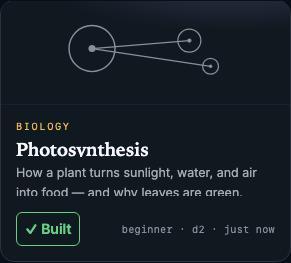
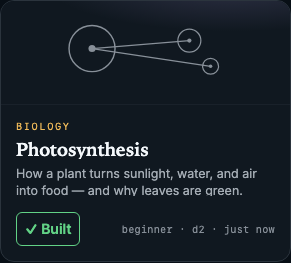
fix(design): library card description line-height → --lh-card-desc 1.4 (no 2nd-line clip)
The library poster card's description (.library-poster__desc) used the gloss
line-height band (--lh-gloss 1.55) for its 2-line -webkit-box clamp. At
--fs-caption (12.5px) that is ~19.4px/line → 38.8px over two lines, which
overflows the fixed card body budget, so overflow:hidden sliced the SECOND
line mid-glyph (descenders cut; on mobile the serif title's descender grazed
the clip too). Figma node 6:47 renders the description as two CLEAN fully-
visible lines (its 6:46 box is 35px ≈ 17.5px/line ≈ 1.40 at 12.5px).

Fix (token-disciplined per §0): add --lh-card-desc: 1.4 to the §0 :root
manifest, its name to tokens.ts (tokens.test.ts stays green), and the entry
to DESIGN.md §0; .library-poster__desc now uses var(--lh-card-desc). Both
description lines now sit within the card with descenders intact and the
title is unclipped at desktop 1440x900 and mobile 390x844. The chrome-only
card token is not injected into the artifact sandbox, so serve.test.ts's
two-copies invariant is unaffected.

Doc-currency (AGENTS.md layout notes, #151 surface): note the isolated
fail-safe classify-category Haiku-tail helper (NOT a stage, NEVER throws,
never touches the LessonBrief/eval arm) and the additive NULLABLE owner-
scoped curriculum.category/summary card columns read by listLessons.

Re-captured the library dense-card visual baseline (desktop + mobile darwin).

Claude-Session: https://claude.ai/code/session_01LpCadPSUTfxva2QxCk857y

Changed region(s): [[0.0619, 0.6388, 0.8969, 0.7605], [0.0619, 0.0, 0.9588, 0.0304], [0.2784, 0.2433, 0.3093, 0.2738]]

diff --git a/src/app/globals.css b/src/app/globals.css
@@ -115,6 +115,7 @@
   --lh-display: 1.06;
   --lh-heading: 1.18;
   --lh-gloss: 1.55;
+  --lh-card-desc: 1.4; /* library poster-card 2-line description (Figma 6:46/6:47 ≈ 17.5px/line @ 12.5px) */
 
   /* space (rem) */
   --sp-1: 0.25rem;
@@ -576,13 +577,16 @@ h1 {
   overflow: hidden;
 }
 
-/* One-line DESCRIPTION (Figma 6:47): sans 12.5px (= --fs-caption) in --text-muted (#a4acb4), the gloss
-   line-height band. The lesson's learner-facing one-liner (summary = the brief's learningGoal). Clamped
-   to TWO lines (the frame's 248px / ~2-line description) so a long goal can't blow the fixed card height;
-   only rendered when the stored summary is non-null (page.tsx cardDescription), else the row is omitted. */
+/* One-line DESCRIPTION (Figma 6:47): sans 12.5px (= --fs-caption) in --text-muted (#a4acb4). The lesson's
+   learner-facing one-liner (summary = the brief's learningGoal). Clamped to TWO lines (the frame's 248px /
+   ~2-line description) so a long goal can't blow the fixed card height; only rendered when the stored
+   summary is non-null (page.tsx cardDescription), else the row is omitted. Line-height is the tighter
+   --lh-card-desc (1.4), NOT --lh-gloss (1.55): at 12.5px, 1.55 → ~19.4px/line → 38.8px over two lines,
+   which exceeds the card body budget so overflow:hidden sliced the SECOND line mid-glyph (descenders cut).
+   The Figma 6:46 box is 35px = ~17.5px/line ≈ 1.40, two CLEAN fully-visible lines — matched here. */
 .library-poster__desc {
   font-size: var(--fs-caption);
-  line-height: var(--lh-gloss);
+  line-height: var(--lh-card-desc);
   color: var(--text-muted);
   display: -webkit-box;
   -webkit-line-clamp: 2;

diff --git a/src/app/styles/tokens.ts b/src/app/styles/tokens.ts
@@ -110,6 +110,7 @@ export const lineHeightTokens = [
   '--lh-display',
   '--lh-heading',
   '--lh-gloss',
+  '--lh-card-desc',
 ] as const;
 
 /** Spacing scale — rem (DESIGN.md §0). */

diff --git a/AGENTS.md b/AGENTS.md
@@ -112,7 +112,7 @@ Run `git status` / `ls` for current state — don't trust a snapshot here.
 - `npm run skeleton -- --topic "<topic>" [--level …] [--depth N] [--audience "…"] [--cheap] [--max-questions N] [--trace [path]]` — run the **single-lesson path** (`runLesson` — plan → research → brief → spec → code → critic → ONE lesson) end-to-end over the in-process engine and print the one-page result + per-model cost. (Matches the deployed Job + the single-lesson UI; the curriculum path is dormant — see `run-pipeline` below.) `--cheap` runs every stage on Haiku and `--max-questions N` caps the research fan-out (each question drives a web search — the main cost driver) — together they keep a test run to ~pennies. `--max-nodes N` is still parsed but **inert** on the lesson path (it caps `runPipeline`'s built-node count, never the single lesson), so it's omitted from the usage string. `--dump-html <dir>` writes the synthesized page's HTML to `<dir>/<slug>.html` so you can open it in a browser. `--persist` writes the whole run to Postgres via `persistRun` (needs `DATABASE_URL` + a migrated DB — `docker compose up -d && npm run db:migrate`) and prints the `/curriculum/<id>` route the app serves it at. `--trace [path]` records the run's per-stage cost/token spans to a local `@eleatic/eval` SQLite store (one run + an `_analysis` row + a row per built page, each a span tree); because `runLesson` exposes the assembled `LessonBrief`, a `--trace` run now also FIRES the LLM-judge (issue #51) over that brief — on the run's resolved judge model, so `--cheap` cheapens the judge too — folding its scores + cost into the `_analysis` row. Explore with `npx @eleatic/eval serve --db <path>` (no path → an ephemeral `:memory:` store). It shares the run id with `--persist` so the trace links the curriculum. Needs a provider API key in the env (e.g. `ANTHROPIC_API_KEY`); uses no durable engine.
 - `npm run job` — the headless Cloud Run **Job** entrypoint (`src/eval/run-job.ts`): reads `RUN_ID`/`TOPIC`/`LEVEL`/`DEPTH`/`AUDIENCE` + `CHEAP`/`MAX_NODES`/`MAX_QUESTIONS` from the **env** (a Job execution passes them as overrides; `RUN_ID` is an input — never generated — so a retry resumes on the same id), runs the **single-lesson path** (`runLesson` — plan → research → brief → spec → code → critic → ONE lesson, persisted as a one-page curriculum; NO graph/gate/hub) over the durable `GcpEngine`, and `persistRun`s unconditionally. `MAX_NODES` is **inert** on this path (it builds exactly one page) but stays in the env contract. Needs `DATABASE_URL` + `ANTHROPIC_API_KEY`. The Service's `/api/generate` dispatches it; a non-zero exit makes Cloud Run retry on the same `RUN_ID`.
 
-**Layout:** everything lives under `src/` (Next.js App Router via `src/app`). `src/app/` (Next.js routes + `globals.css`, which materializes the `DESIGN.md` §0 tokens; `page.tsx` is the intake form → `POST api/generate/route.ts` (**auth-gated**: an allowlisted Google session is verified — revocation-checked — before any spend, via the `AuthProvider` port; `(auth)/sign-in` + `api/auth/session` mint the httpOnly session cookie and `auth/session-nav` is the signed-in chrome — then it mints a runId; deployed it DISPATCHES the Cloud Run pipeline Job with per-run env overrides via `@google-cloud/run` `dispatch.ts` — the Service stays scale-to-zero; local dev, with no `PIPELINE_JOB_NAME`, falls back to an in-process fire-and-forget **single-lesson** run (`runLesson`, cheap + capped — on the SHARED `cheapModels()` profile (Haiku analysis, Sonnet synthesis — `src/llm/models.ts`, the single source of truth), so it matches the deployed Job's `CHEAP` tier and builds a full page locally rather than truncating to 'soon'; + the single-lesson UI)) → redirects to `curriculum/[id]`, the single-lesson read route (`getCurriculum` → the lone page of the one-page curriculum; built → the lesson's artifact rendered in a no-`allow-same-origin` iframe wrapped by the reader shell (`reader-shell.tsx` — reading-progress chrome + the `#readerPanel.morph-box` FLIP destination), whose pure RECEIVE-side validator `lesson-message.ts` (`validateMessage` checks Window-identity `source === iframe.contentWindow`, NEVER `event.origin` — `"null"` across the opaque boundary — and parses any payload as untrusted coordinate-only data) stays ready for a same-process `lesson:progress` postMessage (the chrome sits at its zero state when the artifact posts nothing), soon/text → a labeled degraded state; while a run is in flight it shows a single-lesson generating state that polls `api/curriculum/[id]/status/route.ts` until the row lands — and renders that poll's owner-scoped `steps` as a live per-step timeline (`generating.tsx`: finished steps show their duration, the in-progress step a live ticking timer, a failed step labeled); the status route derives `ready` from `getCurriculum` and `steps` SEPARATELY from `ownsRun` + `getStepEvents`, so the timeline is visible in the pre-persist window where `getCurriculum` is still null). The tiered hub render (`curriculum/view.ts`'s `tileView` + the tiered CSS) is DORMANT — retained for the future curriculum-wrapper milestone, not rendered today. `curriculum/[id]/[slug]` remains a vestigial standalone detail route (the same artifact in a no-`allow-same-origin` iframe, keyed by URL-safe slug) but `[id]` no longer links to it; `curriculum/[id]/artifact/[slug]/route.ts` serves a stored page's HTML in a strict-CSP sandbox (`artifact/serve.ts`) **only to the owning session** — authorized through the owning curriculum (the same-origin GET carries the cookie), not the shared content-hash pageId), `src/domain/` (pure types + identity/settings/stage-contracts + the `AuthProvider` port `auth.ts` — no I/O; its `firebase-admin` adapter `GcpAuthProvider` + an in-memory fake live in `src/app/auth/`; `src/app/auth/provider.ts` is the `selectAuthProvider()` SEAM `getSessionIdentity` calls — the real `GcpAuthProvider` by default, the seeded `FakeAuthProvider` ONLY under the opt-in `AUTH_PROVIDER=fake` and ONLY off a deployed runtime (it THROWS if the fake is requested with `K_SERVICE` set — the Cloud Run signal), so the e2e harness gets an allowlisted session with no Google OAuth while the fake stays impossible in prod), `src/llm/` (the only LLM-SDK import site — Vercel AI SDK + provider packages; `registry` resolves a `{provider,model}` to a model, `client` wraps text/structured completions (+ `searchWeb`, Anthropic web-search grounding) with per-call cost, plus model tiers (`models.ts`: `STAGE_MODELS` defaults + `cheapModels()` — the single source of truth for the cheap Haiku-analysis/Sonnet-synthesis profile, shared by every cheap entrypoint) + the `provider:model` pricing map), `src/pipeline/` (stages over the `src/domain` contracts — the ANALYSIS LLM stages `planner` / `researcher` (web-search-grounded; drops any finding citing a non-retrieved source) / `graph`, the SYNTHESIS LLM stages `spec` → `code` (standalone HTML) → `critic` (pass/fail verdict), plus the pure deterministic `coverage-gate` (route built/text/soon by coverage; reject duplicate slugs, drop edges to unknown nodes + break cycles by dropping back-edges, so LLM graph quirks can't crash the run) + `hub` (tiered sitemap assembly, `built` only when routed-built AND critic-passed) + `run-pipeline` (two run paths over an injected `Engine`, sharing one ANALYSIS prelude + cost/trace machinery: `runPipeline` is the curriculum path — plan → researchers fan-out → graph → gate → per-built-node spec/code/critic → hub (currently DORMANT: NO entrypoint drives it — `run-skeleton.ts` (`npm run skeleton`), the local-dev in-process fallback in `api/generate/route.ts`, and the deployed Job all now run `runLesson`; the curriculum path is retained for the curriculum-wrapper milestone and still covered by its own unit tests); `runLesson` is the SINGLE-LESSON path — plan → researchers → **brief** → spec → code → critic → ONE lesson keyed by a topic-derived slug, with NO graph/gate/hub. Both thread every per-call cost and accept per-stage model overrides — the workflow_version arm / cheap-mode — a `maxNodes` synthesis cap (inert on the lesson path), and an injectable `StageBundle` so any single stage is swappable for a test or eval arm) + `ports.ts` (the swap-seam catalog: `StageBundle`/`defaultStages` + the named ports — Engine · StageDeps · StageModel · StoreDeps · TraceSink); stages take an injectable `StageDeps` + a `model` param so they unit-test with no live model), `src/engine/` (the `Engine` step-memoization seam + an in-process `InlineEngine` for tests/dev + the durable Postgres-backed `GcpEngine` — `step(name,key,fn)` memoized in the `step_result` table keyed by run+name+key, so a Cloud Run Job crash-resume reads completed steps back instead of re-running paid work; in-process it also dedups concurrent fan-out like InlineEngine; on a real (cache-miss) step it also writes per-step TIMING to the `step_event` table — `started_at` on start, `finished_at`/`status` on end (`error` if `fn` throws) — while a cache HIT writes nothing, so a resumed timeline stays complete + non-duplicated (issue #61)), `src/store/` (Postgres schema + access — `repo.ts`: `persistRun` writes a whole run atomically (+ the owner's `sub`) and, in the SAME transaction, PRUNES this run's three transient per-run tables (`step_result` resume-memoization, `run_owner` poll-window stamp, `step_event` live timeline) once the curriculum lands — none has a post-persist consumer, so they stay bounded at their useful in-run lifetime (a persist failure rolls the deletes back too, keeping the run resumable); `step_event` is intentionally NOT kept for cross-run analysis; + `getCurriculum`/`getOwnedPage` read it back **owner-scoped** (uniform 404 for not-owned; the pre-persist poll window uses a `run_owner` stamp written at dispatch) + `getStepEvents` reads a run's `step_event` timeline for the live generating UI (served only in the pre-persist window — pruned at persist) + `listLessons` is the owner-scoped library-card reader (TS-16 — one thin poster-card row per owned lesson, newest-first; an inner `DISTINCT ON (c.id)` collapses each curriculum to its lowest-`ordinal` representative page so a multi-page curriculum (the RETAINED `runPipeline` path) emits ONE card per curriculum, not N duplicates sharing one `/curriculum/[id]` href; JSONB-extracts `interactionKind` best-effort, tolerating blob rows + any historical sectioned-spec rows + degraded NULL-`spec_json` rows so the library home can't crash), over an injectable pool), `src/eval/` (the `run-skeleton` CLI driver — the single-lesson path (`runLesson`) over `InlineEngine`, prints the one-page result + cost, and on `--trace` fires the LLM-judge over the brief (`npm run skeleton`) — and `run-job.ts`, the headless Cloud Run **Job** entrypoint: the single-lesson path over the durable `GcpEngine` from env inputs, `persistRun`d (`npm run job`)), `src/trace/` (the OBSERVABILITY seam behind the `TraceSink` port: `span.ts` collects per-call spans, the pure `reduce.ts` folds them to an eleatic run + rows, `eleatic-adapter.ts` is the SOLE `@eleatic/eval` import site — a devDep fenced out of the app bundle; wired into the CLI via `--trace`. Records carry no wall-clock, so spans omit `durationMs`). `Dockerfile.app` (Next standalone → `server.js` on `$PORT`; `NEXT_PUBLIC_FIREBASE_*` build args inline the client auth config at build time) + `Dockerfile.job` (`tsx src/eval/run-job.ts`, single-repo) build the two images; `infra/cloud-run.tf` provisions the Cloud Run **Service** (scale-to-zero app; its env carries `AUTH_ALLOWLIST` for the spend gate) + the pipeline **Job** + a one-shot **migrate Job** (the job image, command-overridden to `tsx src/store/migrate.ts`) + a least-priv custom role (`run.jobs.run`/`runWithOverrides`) so the Service can dispatch the Job, all reaching Cloud SQL via the unix-socket connector + secret-env. The `/api/generate`→Job dispatch (`dispatch.ts`) completes the deploy path. `infra/auth.tf` provisions managed **GCP Identity Platform** (Google-only sign-in + the runtime SA's `firebaseauth.admin`) for the auth subsystem (ADR 0002; ownership is an `owner_sub` column on the existing Postgres, no second store). The whole GCP foundation + Cloud Run + Identity Platform is `infra/` Terraform over a GCS-backed state. The deployment + orchestration + swappability architecture — GCP serverless (Cloud Run Service + Job), code-orchestration (no managed workflow tool), one Cloud SQL Postgres for app records *and* `step_results`, and **every workflow component swappable behind a port** (engine, stages, LLM client, store, model — the testing + eval-arm seam) — is recorded in [`docs/decisions/0001-deployment-orchestration-and-swappability.md`](docs/decisions/0001-deployment-orchestration-and-swappability.md), which **supersedes** the Engine/Orchestration/deploy sections of `docs/plans/walking-skeleton.md`.
+**Layout:** everything lives under `src/` (Next.js App Router via `src/app`). `src/app/` (Next.js routes + `globals.css`, which materializes the `DESIGN.md` §0 tokens; `page.tsx` is the intake form → `POST api/generate/route.ts` (**auth-gated**: an allowlisted Google session is verified — revocation-checked — before any spend, via the `AuthProvider` port; `(auth)/sign-in` + `api/auth/session` mint the httpOnly session cookie and `auth/session-nav` is the signed-in chrome — then it mints a runId; deployed it DISPATCHES the Cloud Run pipeline Job with per-run env overrides via `@google-cloud/run` `dispatch.ts` — the Service stays scale-to-zero; local dev, with no `PIPELINE_JOB_NAME`, falls back to an in-process fire-and-forget **single-lesson** run (`runLesson`, cheap + capped — on the SHARED `cheapModels()` profile (Haiku analysis, Sonnet synthesis — `src/llm/models.ts`, the single source of truth), so it matches the deployed Job's `CHEAP` tier and builds a full page locally rather than truncating to 'soon'; + the single-lesson UI)) → redirects to `curriculum/[id]`, the single-lesson read route (`getCurriculum` → the lone page of the one-page curriculum; built → the lesson's artifact rendered in a no-`allow-same-origin` iframe wrapped by the reader shell (`reader-shell.tsx` — reading-progress chrome + the `#readerPanel.morph-box` FLIP destination), whose pure RECEIVE-side validator `lesson-message.ts` (`validateMessage` checks Window-identity `source === iframe.contentWindow`, NEVER `event.origin` — `"null"` across the opaque boundary — and parses any payload as untrusted coordinate-only data) stays ready for a same-process `lesson:progress` postMessage (the chrome sits at its zero state when the artifact posts nothing), soon/text → a labeled degraded state; while a run is in flight it shows a single-lesson generating state that polls `api/curriculum/[id]/status/route.ts` until the row lands — and renders that poll's owner-scoped `steps` as a live per-step timeline (`generating.tsx`: finished steps show their duration, the in-progress step a live ticking timer, a failed step labeled); the status route derives `ready` from `getCurriculum` and `steps` SEPARATELY from `ownsRun` + `getStepEvents`, so the timeline is visible in the pre-persist window where `getCurriculum` is still null). The tiered hub render (`curriculum/view.ts`'s `tileView` + the tiered CSS) is DORMANT — retained for the future curriculum-wrapper milestone, not rendered today. `curriculum/[id]/[slug]` remains a vestigial standalone detail route (the same artifact in a no-`allow-same-origin` iframe, keyed by URL-safe slug) but `[id]` no longer links to it; `curriculum/[id]/artifact/[slug]/route.ts` serves a stored page's HTML in a strict-CSP sandbox (`artifact/serve.ts`) **only to the owning session** — authorized through the owning curriculum (the same-origin GET carries the cookie), not the shared content-hash pageId), `src/domain/` (pure types + identity/settings/stage-contracts + the `AuthProvider` port `auth.ts` — no I/O; its `firebase-admin` adapter `GcpAuthProvider` + an in-memory fake live in `src/app/auth/`; `src/app/auth/provider.ts` is the `selectAuthProvider()` SEAM `getSessionIdentity` calls — the real `GcpAuthProvider` by default, the seeded `FakeAuthProvider` ONLY under the opt-in `AUTH_PROVIDER=fake` and ONLY off a deployed runtime (it THROWS if the fake is requested with `K_SERVICE` set — the Cloud Run signal), so the e2e harness gets an allowlisted session with no Google OAuth while the fake stays impossible in prod), `src/llm/` (the only LLM-SDK import site — Vercel AI SDK + provider packages; `registry` resolves a `{provider,model}` to a model, `client` wraps text/structured completions (+ `searchWeb`, Anthropic web-search grounding) with per-call cost, plus model tiers (`models.ts`: `STAGE_MODELS` defaults + `cheapModels()` — the single source of truth for the cheap Haiku-analysis/Sonnet-synthesis profile, shared by every cheap entrypoint) + the `provider:model` pricing map), `src/pipeline/` (stages over the `src/domain` contracts — the ANALYSIS LLM stages `planner` / `researcher` (web-search-grounded; drops any finding citing a non-retrieved source) / `graph`, the SYNTHESIS LLM stages `spec` → `code` (standalone HTML) → `critic` (pass/fail verdict), plus the ISOLATED fail-safe `classify-category` (`classify-category.ts` — NOT a `StageBundle` stage and NOT on the `runLesson` stage path: a thin Haiku-tier presentation-metadata helper invoked at the run TAIL that derives the card's subject eyebrow (BIOLOGY / MATHEMATICS / …) from the topic; it NEVER throws — any error/invalid output → `category: null`, the run unaffected — and never touches the `LessonBrief`/eval arm), plus the pure deterministic `coverage-gate` (route built/text/soon by coverage; reject duplicate slugs, drop edges to unknown nodes + break cycles by dropping back-edges, so LLM graph quirks can't crash the run) + `hub` (tiered sitemap assembly, `built` only when routed-built AND critic-passed) + `run-pipeline` (two run paths over an injected `Engine`, sharing one ANALYSIS prelude + cost/trace machinery: `runPipeline` is the curriculum path — plan → researchers fan-out → graph → gate → per-built-node spec/code/critic → hub (currently DORMANT: NO entrypoint drives it — `run-skeleton.ts` (`npm run skeleton`), the local-dev in-process fallback in `api/generate/route.ts`, and the deployed Job all now run `runLesson`; the curriculum path is retained for the curriculum-wrapper milestone and still covered by its own unit tests); `runLesson` is the SINGLE-LESSON path — plan → researchers → **brief** → spec → code → critic → ONE lesson keyed by a topic-derived slug, with NO graph/gate/hub. Both thread every per-call cost and accept per-stage model overrides — the workflow_version arm / cheap-mode — a `maxNodes` synthesis cap (inert on the lesson path), and an injectable `StageBundle` so any single stage is swappable for a test or eval arm) + `ports.ts` (the swap-seam catalog: `StageBundle`/`defaultStages` + the named ports — Engine · StageDeps · StageModel · StoreDeps · TraceSink); stages take an injectable `StageDeps` + a `model` param so they unit-test with no live model), `src/engine/` (the `Engine` step-memoization seam + an in-process `InlineEngine` for tests/dev + the durable Postgres-backed `GcpEngine` — `step(name,key,fn)` memoized in the `step_result` table keyed by run+name+key, so a Cloud Run Job crash-resume reads completed steps back instead of re-running paid work; in-process it also dedups concurrent fan-out like InlineEngine; on a real (cache-miss) step it also writes per-step TIMING to the `step_event` table — `started_at` on start, `finished_at`/`status` on end (`error` if `fn` throws) — while a cache HIT writes nothing, so a resumed timeline stays complete + non-duplicated (issue #61)), `src/store/` (Postgres schema + access — `repo.ts`: `persistRun` writes a whole run atomically (+ the owner's `sub`, + the additive NULLABLE owner-scoped card columns `curriculum.category` (the isolated fail-safe classifier's subject eyebrow) and `curriculum.summary` (the brief's learningGoal — pure data plumbing, no extra generation), both omitted gracefully on the card when NULL) and, in the SAME transaction, PRUNES this run's three transient per-run tables (`step_result` resume-memoization, `run_owner` poll-window stamp, `step_event` live timeline) once the curriculum lands — none has a post-persist consumer, so they stay bounded at their useful in-run lifetime (a persist failure rolls the deletes back too, keeping the run resumable); `step_event` is intentionally NOT kept for cross-run analysis; + `getCurriculum`/`getOwnedPage` read it back **owner-scoped** (uniform 404 for not-owned; the pre-persist poll window uses a `run_owner` stamp written at dispatch) + `getStepEvents` reads a run's `step_event` timeline for the live generating UI (served only in the pre-persist window — pruned at persist) + `listLessons` is the owner-scoped library-card reader (TS-16 — one thin poster-card row per owned lesson, newest-first, reading the `category`/`summary` card columns for the Figma 6:2 dense card's eyebrow + description; an inner `DISTINCT ON (c.id)` collapses each curriculum to its lowest-`ordinal` representative page so a multi-page curriculum (the RETAINED `runPipeline` path) emits ONE card per curriculum, not N duplicates sharing one `/curriculum/[id]` href; JSONB-extracts `interactionKind` best-effort, tolerating blob rows + any historical sectioned-spec rows + degraded NULL-`spec_json` rows so the library home can't crash), over an injectable pool), `src/eval/` (the `run-skeleton` CLI driver — the single-lesson path (`runLesson`) over `InlineEngine`, prints the one-page result + cost, and on `--trace` fires the LLM-judge over the brief (`npm run skeleton`) — and `run-job.ts`, the headless Cloud Run **Job** entrypoint: the single-lesson path over the durable `GcpEngine` from env inputs, `persistRun`d (`npm run job`)), `src/trace/` (the OBSERVABILITY seam behind the `TraceSink` port: `span.ts` collects per-call spans, the pure `reduce.ts` folds them to an eleatic run + rows, `eleatic-adapter.ts` is the SOLE `@eleatic/eval` import site — a devDep fenced out of the app bundle; wired into the CLI via `--trace`. Records carry no wall-clock, so spans omit `durationMs`). `Dockerfile.app` (Next standalone → `server.js` on `$PORT`; `NEXT_PUBLIC_FIREBASE_*` build args inline the client auth config at build time) + `Dockerfile.job` (`tsx src/eval/run-job.ts`, single-repo) build the two images; `infra/cloud-run.tf` provisions the Cloud Run **Service** (scale-to-zero app; its env carries `AUTH_ALLOWLIST` for the spend gate) + the pipeline **Job** + a one-shot **migrate Job** (the job image, command-overridden to `tsx src/store/migrate.ts`) + a least-priv custom role (`run.jobs.run`/`runWithOverrides`) so the Service can dispatch the Job, all reaching Cloud SQL via the unix-socket connector + secret-env. The `/api/generate`→Job dispatch (`dispatch.ts`) completes the deploy path. `infra/auth.tf` provisions managed **GCP Identity Platform** (Google-only sign-in + the runtime SA's `firebaseauth.admin`) for the auth subsystem (ADR 0002; ownership is an `owner_sub` column on the existing Postgres, no second store). The whole GCP foundation + Cloud Run + Identity Platform is `infra/` Terraform over a GCS-backed state. The deployment + orchestration + swappability architecture — GCP serverless (Cloud Run Service + Job), code-orchestration (no managed workflow tool), one Cloud SQL Postgres for app records *and* `step_results`, and **every workflow component swappable behind a port** (engine, stages, LLM client, store, model — the testing + eval-arm seam) — is recorded in [`docs/decisions/0001-deployment-orchestration-and-swappability.md`](docs/decisions/0001-deployment-orchestration-and-swappability.md), which **supersedes** the Engine/Orchestration/deploy sections of `docs/plans/walking-skeleton.md`.
 
 **The Analysis/Synthesis seam (the `LessonBrief` contract).** The pipeline is two components: **ANALYSIS** (`plan → research → brief`) decides *what to teach*; **SYNTHESIS** (`spec → code → critic`) decides *how to present it*. They meet at one typed object — the `LessonBrief` (`src/domain/stages.ts`: `learningGoal` + `keyPoints` + denormalized `findings` `{claim, source}` + `audience`), produced by the `brief` Analysis stage from `plan + research[]` and consumed by `spec`. `learningGoal` lives *only* on the brief (it left `PageSpec`); routing the grounded `findings` through the brief is why `spec` is no longer fact-starved. `LESSON_BRIEF_SCHEMA_HASH` is the contract's stable schema-hash anchor (derived from the schema, not hand-bumped); `persistRun`'s `workflow_version` folds it in alongside a content-derived `PROMPTS_VERSION` (`src/pipeline/prompts.ts`, hashing the stage system prompts) — so a contract or prompt change yields a distinct eval arm even when the model snapshots are unchanged (the `prompt_hash` column, once the literal `'v1'`, now carries that real hash). The durable `GcpEngine` also validate-on-resumes the `brief` step against `LessonBriefSchema` (`Engine.step`'s optional 4th Zod arg): a cached brief whose shape no longer parses is a cache MISS and is re-run, so a deploy that changes the contract mid-run can never feed an old-shape brief into `spec`. The graph-free **single-lesson path** (`runLesson`, now driven by EVERY entrypoint — `npm run job` / the deployed Job, `npm run skeleton`, and the local-dev in-process fallback) runs the real `brief` stage end-to-end and is the live path; `run-pipeline`'s curriculum path stays DORMANT and keeps a transitional per-node brief until the curriculum-wrapper milestone (decompose → N lessons, each via `runLesson`) wires the real stage in. On the SYNTHESIS side the `spec` stage emits the flat `PageSpec` (`{nodeSlug, interactionKind, a11yContract, citations}`); `code` renders it to a standalone HTML artifact and `critic` returns a binary pass/fail verdict. (A v11 typed-sectioned-`LessonSpec` + graded-critic rework was prototyped behind a `StageBundle` swap and then REVERTED to this blob-binary shape — see `docs/plans/lesson-workspace.md` for the superseded program plan.)
 

diff --git a/DESIGN.md b/DESIGN.md
@@ -38,7 +38,7 @@
 >
 > **Intra-Figma type-scale conflict (`--fs-body` / `--fs-h2` / `--lh-reading`).** The Figma file itself disagrees on these three across two surfaces: the **Foundation/§0 token page** (node `9:15`) reads `Body/Base 16px / lh 1.5` and `Heading/H2 22px` (verified via `get_variable_defs`), while the **lesson-workspace screen frame** (node `3:2`) reads the 17px / 24px / 1.7 reading rhythm transcribed above. §0 reconciles toward the **screen frame `3:2`** — it is the real layout the build targets (its H2 text-node box geometry, ~29px, fits 24px, not 22px), and per the authority chain a disagreeing Figma value is reconciled INTO §0 here, not built from. The Foundation page `9:15` is therefore the **stale Figma surface** for these three tokens — a human should update it to 17/24/1.7 on the next Figma edit so the design-system page matches the screens.
 **Letter-spacing** (ADOPTED — new scale; negative on tight display/headings, positive in `em` on the uppercase-mono eyebrows + fine-print so it scales with the §0 caption/micro sizes; Figma tracking values reconciled to em) `--ls-display-tight -0.015em` (hero / serif h1) · `--ls-display -0.01em` (h2 / card title) · `--ls-snug -0.005em` (page title) · `--ls-meta 0.02em` (mono fine-print / card meta) · `--ls-eyebrow 0.16em` (uppercase mono eyebrow / kicker) · `--ls-eyebrow-wide 0.2em` (widest stage-label / topic eyebrow)
-**Line-height** (ADOPTED — per-role tokens; supersede the §Typography "1.5 body / 1.2 headings" pair) `--lh-reading 1.7` (reading prose, Figma `3:2` / v11 `.prose-flow p`; the Figma Foundation page `9:15` still reads 1.5 — see *Intra-Figma type-scale conflict* above) · `--lh-display 1.06` (serif display / lesson h1) · `--lh-heading 1.18` (lesson h2) · `--lh-gloss 1.55` (gloss / caption band)
+**Line-height** (ADOPTED — per-role tokens; supersede the §Typography "1.5 body / 1.2 headings" pair) `--lh-reading 1.7` (reading prose, Figma `3:2` / v11 `.prose-flow p`; the Figma Foundation page `9:15` still reads 1.5 — see *Intra-Figma type-scale conflict* above) · `--lh-display 1.06` (serif display / lesson h1) · `--lh-heading 1.18` (lesson h2) · `--lh-gloss 1.55` (gloss / caption band) · `--lh-card-desc 1.4` (library poster-card 2-line description, Figma `6:2` card node `6:47`: the `6:46` box is 35px ≈ 17.5px/line ≈ 1.40 at 12.5px — TIGHTER than `--lh-gloss` so two clamped lines fit the fixed card body without `overflow:hidden` slicing the second line's descenders)
 **Space (rem)** `--sp-1 .25` · `--sp-2 .5` · `--sp-3 .75` · `--sp-4 1` · `--sp-5 1.5` · `--sp-6 2` · `--sp-7 3`
 **Radii** `--r-sm 6px` · `--r-md 10px` · `--r-card 12px` (apparatus panel, Figma `1:2` panels rounded-12) · `--r-card-lg 14px` (library poster, Figma `6:2` cards rounded-14) · `--r-lg 16px` · `--r-pill 999px` (user chip / status capsule) · `--r-kbd 4px` (keyboard-hint key cap, v11 mock)
 **Geometry** (ADOPTED — the lesson-workspace spine/panel/frame metrics §Lesson layout depends on; new vocabulary, no prior §0 equivalent)